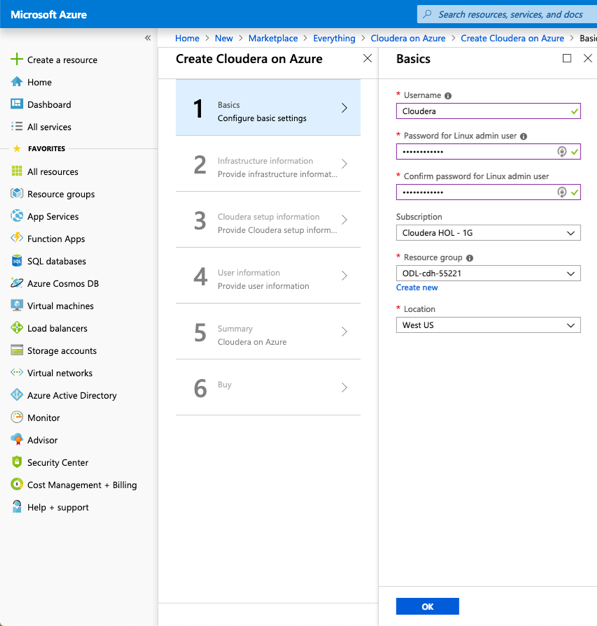
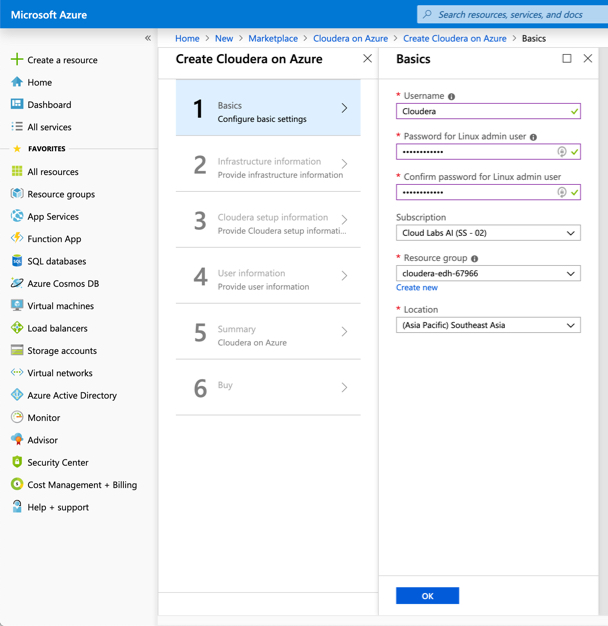
Updates for SG Lab

diff --git a/Lab 1 - User Registration.md b/Lab 1 - User Registration.md
@@ -9,13 +9,13 @@ http://bit.ly/2YLu3OG
 
 ![Azure](./images/lab01-a.jpg)
 
-Please complete the registration process. Then click on Launch Lab.
+Please complete the registration process. Click Submit. Another page will load and on that click on Launch Lab.
 
-You will then receive an Azure Logon credentials on the email id you used for the registration. These would be the credentials that you would use for accessing the lab throughout the day. 
+You will then receive an Azure Logon credentials on the email id you used for the registration. These would be the credentials that you would use for accessing the lab throughout the day. The first section (highlighted in red) are your logon credentials to the Azure Portal. 
 
 ![Azure](./images/lab01-b.jpg)
 
-Login to Azure with YOUR OWN above generated credentials. You can use the copy icon to the right of the user id and password.
+Login to Azure with YOUR OWN above generated credentials. For the purpose of the lab, please avoid sharing the credentials or using the instructor credentials that you might see on the screen. You can use the copy icon to the right of the user id and password. The link to the Azure Portal is in the credentials page as well. 
 
 URL = https://azure.microsoft.com/en-us/
 

diff --git a/Lab 2 - Create Cloudera Big Data Cluster on Azure.md b/Lab 2 - Create Cloudera Big Data Cluster on Azure.md
@@ -10,7 +10,7 @@ Search for 'Cloudera Enterprise' in Marketplace.
 
 ![Azure](./images/lab02-c.jpg)
 
-Select 'Cloudera Enterprise Data Hub'.
+Select '**Cloudera on Azure**' with the 'Cloudera Enterprise Data Hub' option.
 
 ![Azure](./images/lab02-d.jpg)
 
@@ -28,10 +28,12 @@ Now let's go through the basic steps for setting up the various parameters and c
  Password = ```Cloudera_123```
  
 * Select Subscription
- ```Cloudera HOL –1A``` **Could be different in your case**
+ ```Cloud Labs AI (SS - 02)``` **Could be different in your case**.
+ 
+* Select the Resource group ```cloudera-edh-67966```. 
  
 * Select Location
-```West US```
+```(Asia Pacific) Southeast Asia```
 
 ### 2: Infrastructure Information
 
@@ -80,7 +82,7 @@ Wait for the validation to pass.
 
 Click OK. 
 
-Wait for the Summary to validate and then click on OK and then click on Create. 
+Wait for the Summary to validate and then click on OK. The next screen is for terms of use. Here you need to provide your email id, and then click on Create. 
 
 ![Azure](./images/lab02-m.jpg)
 
